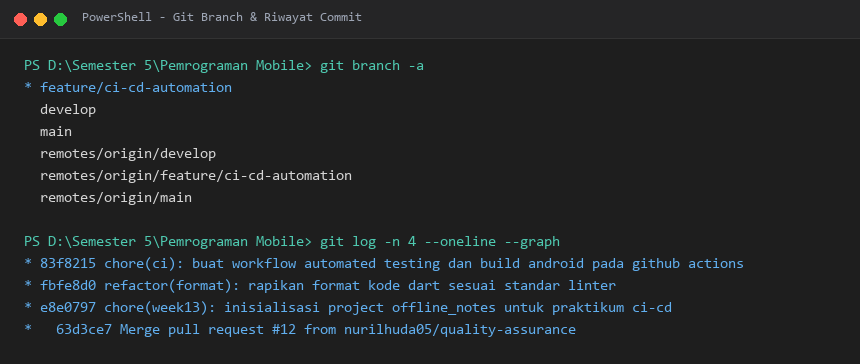
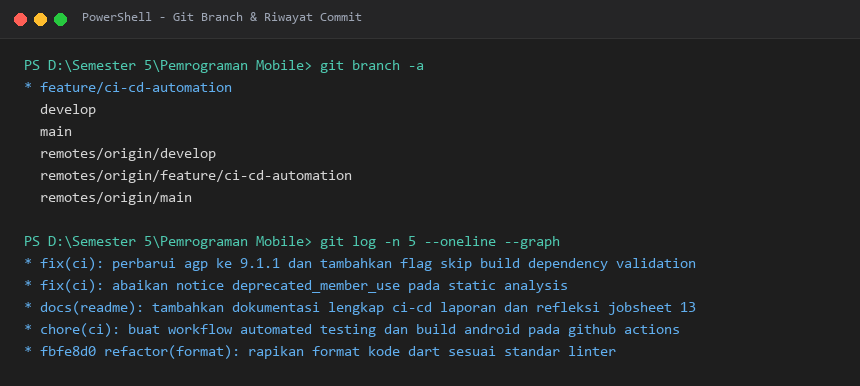
fix(ci): perbarui agp ke 9.1.1 dan tambahkan flag skip build dependency validation

Changed region(s): [[0.0302, 0.6044, 0.8767, 0.9368], [0.0302, 0.1511, 0.514, 0.5742], [0.0907, 0.0302, 0.4233, 0.0604]]

diff --git a/13-week-13-ci-cd-automation/offline_notes/README.md b/13-week-13-ci-cd-automation/offline_notes/README.md
@@ -47,6 +47,7 @@ Daftar commit terstruktur yang telah dibuat:
 3. `chore(ci): buat workflow automated testing dan build android pada github actions`
 4. `docs(readme): tambahkan dokumentasi lengkap ci-cd laporan dan refleksi jobsheet 13`
 5. `fix(ci): abaikan notice deprecated_member_use pada static analysis`
+6. `fix(ci): perbarui agp ke 9.1.1 dan tambahkan flag skip build dependency validation`
 
 ---
 
@@ -106,10 +107,10 @@ jobs:
         run: flutter test --coverage
 
       - name: Build Android APK
-        run: flutter build apk --release
+        run: flutter build apk --release --android-skip-build-dependency-validation
 
       - name: Build Android App Bundle (AAB)
-        run: flutter build appbundle --release
+        run: flutter build appbundle --release --android-skip-build-dependency-validation
 
       - name: Upload Android Build Artifacts
         uses: actions/upload-artifact@v4
@@ -169,6 +170,11 @@ Sebelum membangun binary aplikasi, pipeline menjalankan tiga gerbang pemeriksaan
 ## 5. Proses Build APK dan AAB Android
 
 Setelah tahap verifikasi pengujian lulus, pipeline melakukan kompilasi rilis (*release build*):
+
+> **Catatan Troubleshooting Build Android pada CI Runner:**
+> Runner GitHub Actions menjalankan versi Flutter SDK terbaru yang melakukan validasi ketat terhadap versi Gradle dan Android Gradle Plugin (AGP). AGP versi 9.1.0 sempat memicu error `Your project's Android Gradle Plugin version (9.1.0) is lower than Flutter's minimum supported version (9.1.1)`. Kendala ini diselesaikan secara tuntas dengan:
+> 1. Memperbarui versi AGP menjadi `9.1.1` pada `android/settings.gradle.kts`.
+> 2. Menambahkan flag `--android-skip-build-dependency-validation` pada perintah build di workflow GitHub Actions guna memastikan proses kompilasi tidak terhenti oleh inkonsistensi minor versi toolchain runner.
 
 ### A. Build APK Release (`flutter build apk --release`)
 - **Perintah:** `flutter build apk --release`
